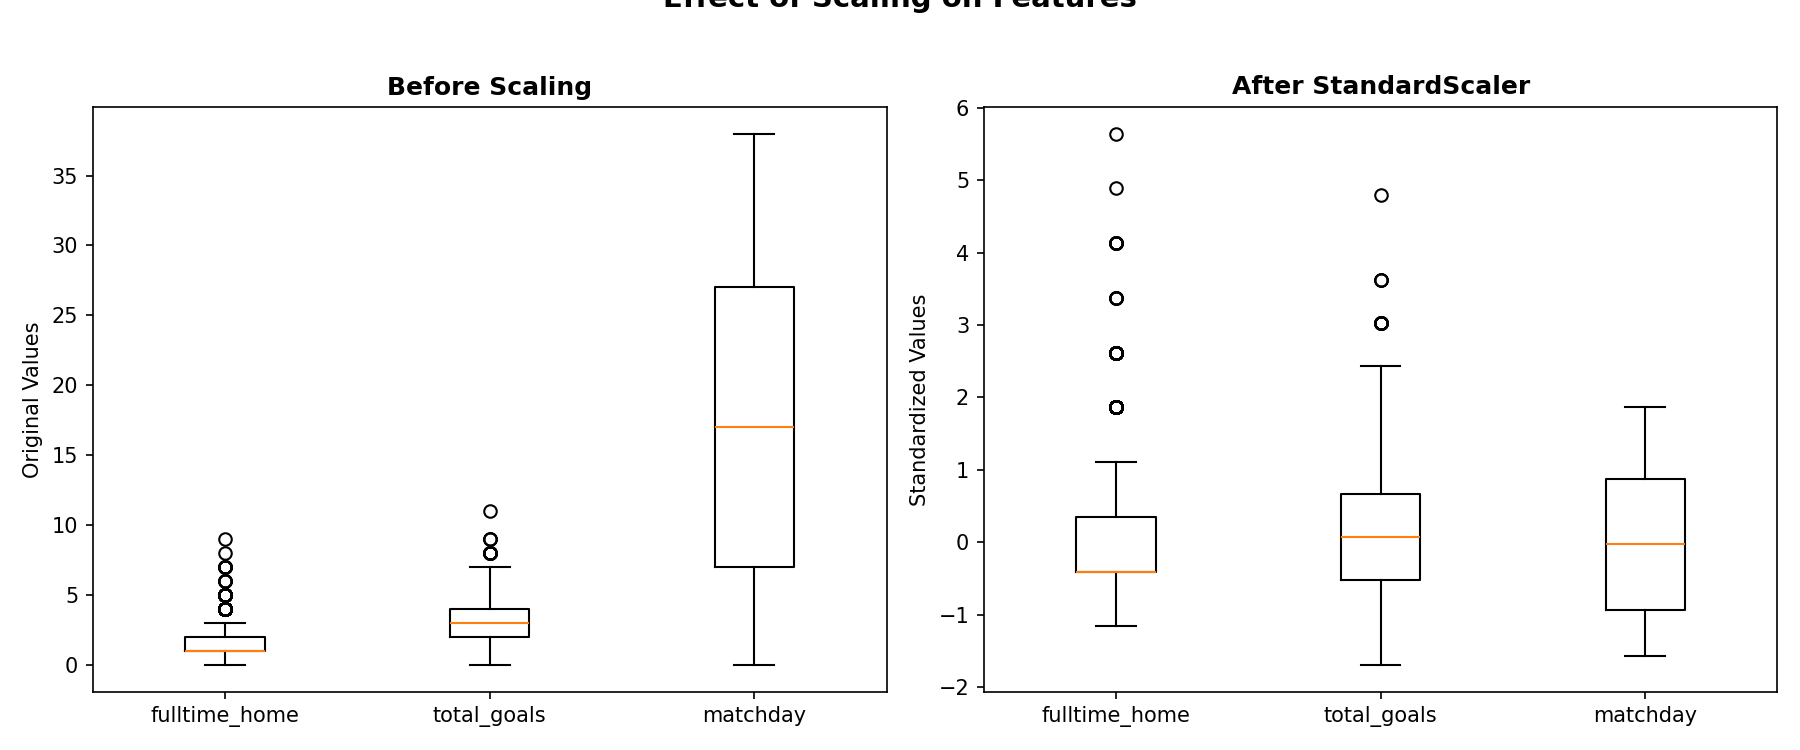
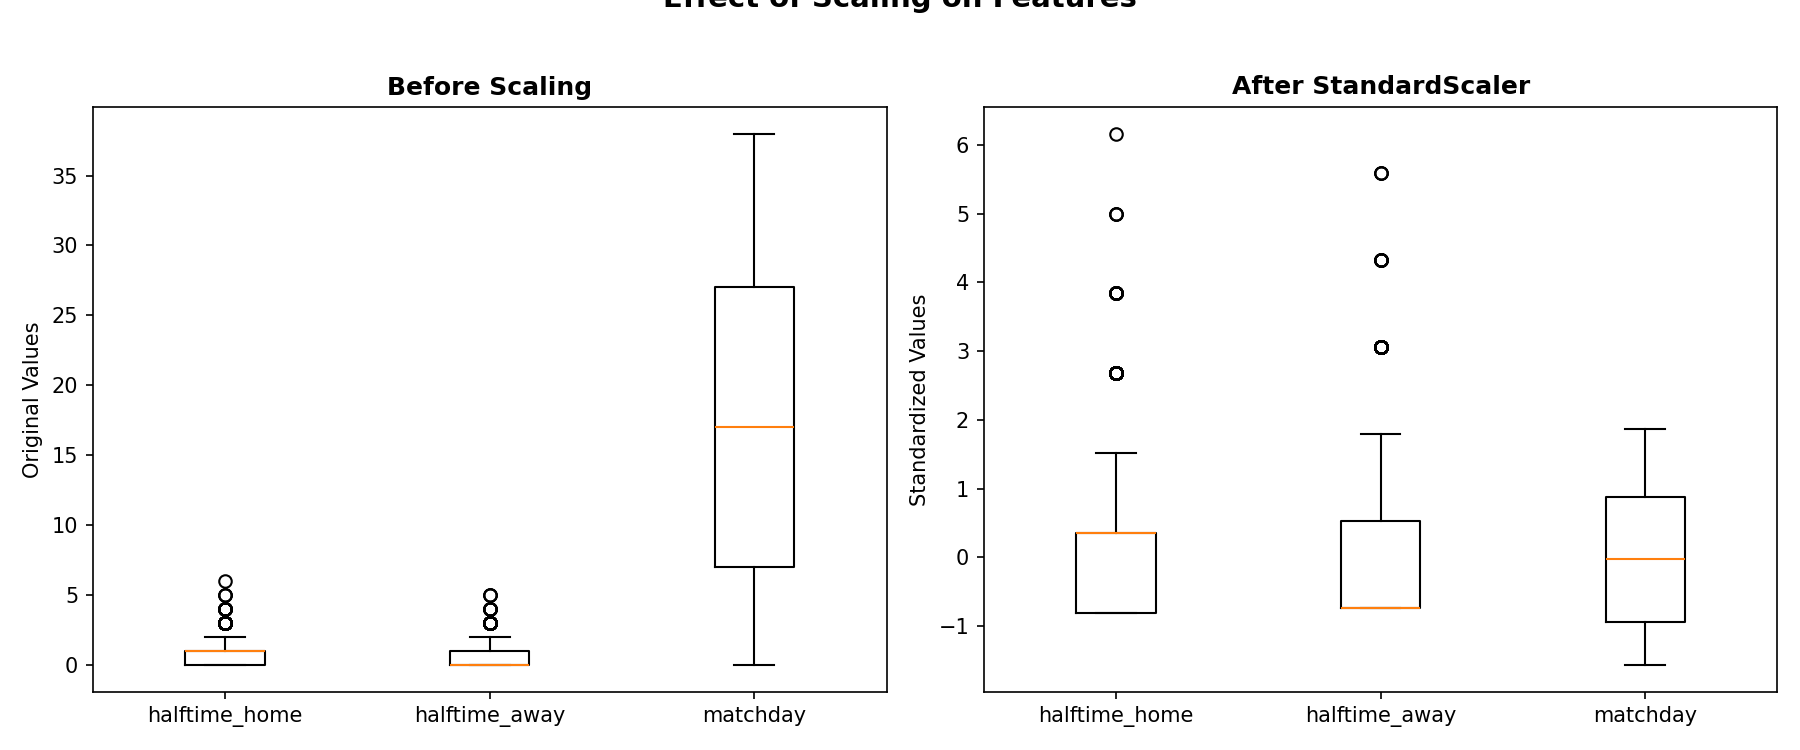
Hackaton2

diff --git a/Hackaton2/Footballprediction.py b/Hackaton2/Footballprediction.py
@@ -68,14 +68,14 @@ has_missing = missing_df[missing_df["Missing Count"] > 0]
 if len(has_missing) > 0:
     print(has_missing)
 else:
-    print("✅ No missing values! The dataset is clean.")
+    print("No missing values! The dataset is clean.")
 print()
 
 #Basic statistics for the columns
 
-print("=" * 60)
-print("📈 BASIC STATISTICS (numeric columns)")
-print("=" * 60)
+print("-" * 40)
+print("BASIC STATISTICS")
+print("-" * 40)
 print(df.describe().round(2).to_string())
 print()
 
@@ -114,7 +114,7 @@ print("STEP 2: DATA ANALYSIS")
 print("=" * 60)
 # 1. Match Outcome Distribution: How many Home Wins vs Away Wins vs Draws 
 
-print("\n --- Match Outcome Disribution ---")
+print("\n--- Match Outcome Disribution ---")
 outcome_counts = df["match_outcome"].value_counts()
 outcome_pct = (df["match_outcome"].value_counts(normalize=True) * 100).round(1)
 for outcome in outcome_counts.index:
@@ -200,7 +200,7 @@ plt.show()
 
 # 5. Average Goals By League: Which league is most intresting
 
-print("\n --- Average Goals By Leagues ---")
+print("\n--- Average Goals By Leagues ---")
 avg_goals_league = df.groupby("competition_name")["total_goals"].mean().sort_values(ascending=False)
 for league, avg in avg_goals_league.items():
     print(f"  {league:<25s}: {avg:.2f} goals/match")
@@ -290,12 +290,13 @@ print("-" * 40)
 
 # 1. Dropping Irellevant Columns
 
-print("\n --- Dropping irellevant columns ---")
+print("\n--- Dropping irellevant columns ---")
 print(f"Columns before: {len(df.columns)}")
 
 columns_to_drop = ["match_id", "referee_id", "home_team_id", "away_team_id",
                    "status", "season", "stage", "date_utc", "referee",
-                   "home_points", "away_points", "halftime_result"]
+                   "home_points", "away_points", "halftime_result",
+                   "fulltime_home", "fulltime_away", "goal_difference", "total_goals"]
 
 df_model = df.drop(columns=columns_to_drop, errors="ignore")
 print(f"Columns after: {len(df_model.columns)}")
@@ -356,16 +357,13 @@ df_model["away_scored_first_half"] = (df_model["halftime_away"] > 0).astype(int)
  
 # Feature 3: Halftime goal difference
 df_model["halftime_goal_diff"] = df_model["halftime_home"] - df_model["halftime_away"]
- 
-# Feature 4: Second half home goals
-df_model["second_half_home"] = df_model["fulltime_home"] - df_model["halftime_home"]
- 
-# Feature 5: Second half away goals
-df_model["second_half_away"] = df_model["fulltime_away"] - df_model["halftime_away"]
- 
+
+# Feature 4: Total halftime goals
+df_model["halftime_total_goals"] = df_model["halftime_home"] + df_model["halftime_away"]
+
 print("New features created:")
 new_features = ["home_scored_first_half", "away_scored_first_half",
-                "halftime_goal_diff", "second_half_home", "second_half_away"]
+                "halftime_goal_diff", "halftime_total_goals"]
 for features in new_features:
     print(f"  {features}: min={df_model[features].min()}, max={df_model[features].max()}, mean={df_model[features].mean():.2f}")
 print()
@@ -408,12 +406,12 @@ X_scaled = pd.DataFrame(
 
 print("\nAfter StandardScaler (first 3 rows):")
 print(X_scaled.head(3).round(3).to_string())
- 
-# Show the effect of scaling
 
-print("\nScaling comparison for 'fulltime_home':")
-print(f"  Before: min={X['fulltime_home'].min()}, max={X['fulltime_home'].max()}, mean={X['fulltime_home'].mean():.2f}")
-print(f"  After:  min={X_scaled['fulltime_home'].min():.3f}, max={X_scaled['fulltime_home'].max():.3f}, mean={X_scaled['fulltime_home'].mean():.3f}")
+# Show The Effect Of Scalling 
+
+print("\nScaling comparison for 'halftime_home':")
+print(f"  Before: min={X['halftime_home'].min()}, max={X['halftime_home'].max()}, mean={X['halftime_home'].mean():.2f}")
+print(f"  After:  min={X_scaled['halftime_home'].min():.3f}, max={X_scaled['halftime_home'].max():.3f}, mean={X_scaled['halftime_home'].mean():.3f}")
  
 print()
  
@@ -424,15 +422,15 @@ fig, axes = plt.subplots(1, 2, figsize=(12, 5))
 # Before scaling
 
 axes[0].set_title("Before Scaling", fontsize=12, fontweight="bold")
-axes[0].boxplot([X["fulltime_home"], X["total_goals"], X["matchday"]],
-                labels=["fulltime_home", "total_goals", "matchday"])
+axes[0].boxplot([X["halftime_home"], X["halftime_away"], X["matchday"]],
+                labels=["halftime_home", "halftime_away", "matchday"])
 axes[0].set_ylabel("Original Values")
  
 # After StandardScaler
 
 axes[1].set_title("After StandardScaler", fontsize=12, fontweight="bold")
-axes[1].boxplot([X_scaled["fulltime_home"], X_scaled["total_goals"], X_scaled["matchday"]],
-                labels=["fulltime_home", "total_goals", "matchday"])
+axes[1].boxplot([X_scaled["halftime_home"], X_scaled["halftime_away"], X_scaled["matchday"]],
+                labels=["halftime_home", "halftime_away", "matchday"])
 axes[1].set_ylabel("Standardized Values")
  
 plt.suptitle("Effect of Scaling on Features", fontsize=14, fontweight="bold", y=1.02)
@@ -452,6 +450,137 @@ print()
 print("-" * 40)
 print("PREPROCESSING COMPLETE!")
 print("-" * 40)
+
+# Step 4: Machine Leaning Model
+
+print("-" * 40)
+print("STEP 4: MACHINE LEARNING MODEL")
+print("-" * 40)
+
+# 1. Decision Tree Model
+print("\n--- Decision Tree Model---")
+
+dt_model = DecisionTreeClassifier(random_state=42)
+dt_model.fit(X_train, y_train)
+
+# Make predictions on the test set
+dt_predictions = dt_model.predict(X_test)
+
+# Check accuracy
+dt_accuracy = accuracy_score(y_test, dt_predictions)
+print(f"Decision Tree Accuracy: {dt_accuracy * 100:.1f}%")
+
+# 2. Random Forest Model
+
+print("\n--- Random Forest Model")
+
+rf_model = RandomForestClassifier(n_estimators=100, random_state=42)
+rf_model.fit(X_train, y_train)
+
+# Make predictions on the test set
+
+rf_predictions = rf_model.predict(X_test)
+ 
+# Check accuracy
+
+rf_accuracy = accuracy_score(y_test, rf_predictions)
+print(f"Random Forest Accuracy: {rf_accuracy * 100:.1f}%")
+
+# 3. Comparing The Models
+
+print("\n--- Model Comparison ---")
+print(f"Decision Tree: {dt_accuracy * 100:.1f}%")
+print(f"Random Forest: {rf_accuracy * 100:.1f}%")
+if rf_accuracy >= dt_accuracy:
+    print("Winner: Random Forest!")
+    best_model = rf_model
+    best_predictions = rf_predictions
+    best_name = "Random Forest"
+else:
+    print("Winner: Decision Tree!")
+    best_model = dt_model
+    best_predictions = dt_predictions
+    best_name = "Decision Tree"
+ 
+# 4. Model Accuracy Comparison
+plt.figure(figsize=(8, 5))
+models = ["Decision Tree", "Random Forest"]
+accuracies = [dt_accuracy * 100, rf_accuracy * 100]
+bar_colors = ["#3498db", "#2ecc71"]
+bars = plt.bar(models, accuracies, color=bar_colors, edgecolor="black")
+for bar, acc in zip(bars, accuracies):
+    plt.text(bar.get_x() + bar.get_width() / 2, bar.get_height() + 0.5,
+             f"{acc:.1f}%", ha="center", fontsize=12, fontweight="bold")
+plt.title("Model Accuracy Comparison", fontsize=14, fontweight="bold")
+plt.ylabel("Accuracy (%)")
+plt.ylim(0, 105)
+plt.tight_layout()
+plt.savefig("chart_09_model_comparison.png", dpi=150)
+plt.show()
+
+# Step 5: Model Evaluation
+
+print("-" * 40)
+print(f"STEP 5: MODEL EVALUATION (using {best_name})")
+print("-" * 40)
+
+# 1. Model Report
+
+print("\n--- Model Report ---")
+
+class_names = list(target_encoder.classes_)
+print(classification_report(y_test, best_predictions, target_names=class_names))
+
+# 2. Confusion Matrix
+
+print("\n--- Confusion Matrix ---")
+
+cm = confusion_matrix(y_test, best_predictions)
+print("Rows = Actual outcome, Columns = Predicted outcome")
+print()
+
+# 3. Confusion Matrix Heatmap
+plt.figure(figsize=(8, 6))
+sns.heatmap(cm, annot=True, fmt="d", cmap="Blues",
+            xticklabels=class_names, yticklabels=class_names)
+plt.title(f"Confusion Matrix - {best_name}", fontsize=14, fontweight="bold")
+plt.xlabel("Predicted Outcome")
+plt.ylabel("Actual Outcome")
+plt.tight_layout()
+plt.savefig("chart_10_confusion_matrix.png", dpi=150)
+plt.show()
+
+# 4. Features Importance
+
+print("--- Feature Importance ---")
+print("Which features matter most for prediction")
+
+feature_importance = pd.Series(
+    best_model.feature_importances_,
+    index=X.columns
+).sort_values(ascending=False)
+
+# Top 10 Features
+
+for i, (feature, importance) in enumerate(feature_importance.head(10).items(), 1):
+    bar = "#" * int(importance * 50)
+    print(f"  {i:2d}. {feature} {importance:.3f} {bar}")
+
+# Plot: Feature Importance
+plt.figure(figsize=(10, 6))
+top_features = feature_importance.head(10)
+top_features.plot(kind="barh", color="#9b59b6", edgecolor="black")
+plt.title(f"Top 10 Most Important Features - {best_name}", fontsize=14, fontweight="bold")
+plt.xlabel("Importance Score")
+plt.ylabel("")
+plt.gca().invert_yaxis()
+plt.tight_layout()
+plt.savefig("chart_11_feature_importance.png", dpi=150)
+plt.show()
+
+
+
+
 
 
 
